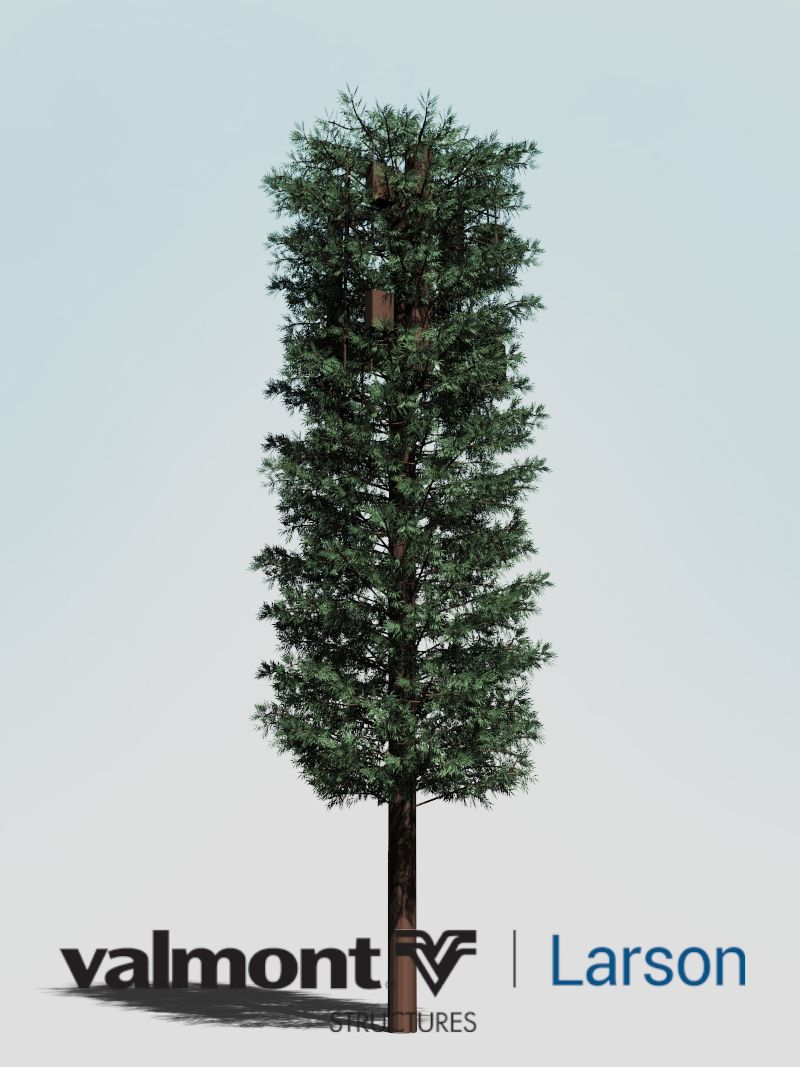
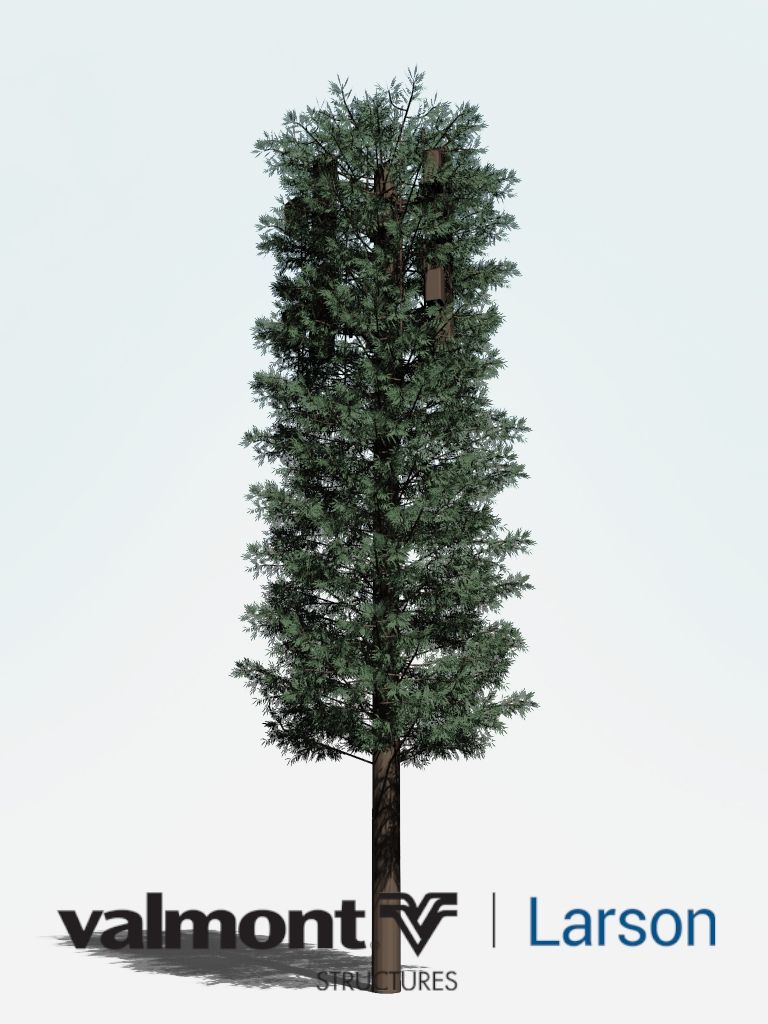
ResidenceInnV3

diff --git a/ResidenceInnV3/instructions.html b/ResidenceInnV3/instructions.html
@@ -30,8 +30,8 @@
       .overlay {
         position: absolute;
         display: inline-block;
-        width: 800px; /* same width as iframe below */
-        height: 1067px; /* same height as iframe below */
+        width: 768px; /* same width as iframe below */
+        height: 1024px; /* same height as iframe below */
         pointer-events: none;
       }
 
@@ -47,9 +47,9 @@
   <body>
     <h2>Instructions for sharing KeyShotXR</h2>
     <p>Below is your KeyShotXR. To view the KeyShotXR by itself open the <i><a href="ResidenceInnV3.html">ResidenceInnV3.html</a></i> file in the <i>ResidenceInnV3</i> folder.</p>
-    <div style="max-width: 800px; max-height: 1067px;">
+    <div style="max-width: 768px; max-height: 1024px;">
       <div class="overlay" id="overlay">&nbsp;</div>
-      <div style="left: 0px; width: 100%; height: 0px; position: relative; padding-bottom: 133.375%; overflow: hidden;">
+      <div style="left: 0px; width: 100%; height: 0px; position: relative; padding-bottom: 133.333%; overflow: hidden;">
         <iframe src="ResidenceInnV3.html"
                 allowfullscreen
                 style="position: absolute; top: 0px; left: 0px; height: 100%; width: 1px; min-width: 100%; *width: 100%;"
@@ -64,8 +64,8 @@
     <br>
     <br>
     <b>[Code]:</b>
-    <pre class="code">&lt;<span class="c-tag">div</span> style=<span class="c-attribute">"max-width: 800px; max-height: 1067px;"</span>&gt;
-  &lt;<span class="c-tag">div</span> style=<span class="c-attribute">"left: 0px; width: 100%; height: 0px; position: relative; padding-bottom: 133.375%; overflow: hidden;"</span>&gt;
+    <pre class="code">&lt;<span class="c-tag">div</span> style=<span class="c-attribute">"max-width: 768px; max-height: 1024px;"</span>&gt;
+  &lt;<span class="c-tag">div</span> style=<span class="c-attribute">"left: 0px; width: 100%; height: 0px; position: relative; padding-bottom: 133.333%; overflow: hidden;"</span>&gt;
     &lt;<span class="c-tag">iframe</span> src=<span class="c-attribute">"ResidenceInnV3.html"</span>
                  allowfullscreen
                  style=<span class="c-attribute">"position: absolute; top: 0px; left: 0px; height: 100%; width: 1px; min-width: 100%; *width: 100%;"</span>

diff --git a/ResidenceInnV3/ResidenceInnV3.html b/ResidenceInnV3/ResidenceInnV3.html
@@ -20,15 +20,15 @@
       function initKeyShotXR() {
         var nameOfDiv = "KeyShotXR";
         var folderName = "ResidenceInnV3";
-        var viewPortWidth = 800;
-        var viewPortHeight = 1067;
+        var viewPortWidth = 768;
+        var viewPortHeight = 1024;
         var backgroundColor = "#FFFFFF";
         var uCount = 18;
         var vCount = 1;
         var uWrap = true;
         var vWrap = false;
         var uMouseSensitivity = -0.05;
-        var vMouseSensitivity = 0.00555556;
+        var vMouseSensitivity = 1;
         var uStartIndex = 9;
         var vStartIndex = 0;
         var minZoom = 1;
